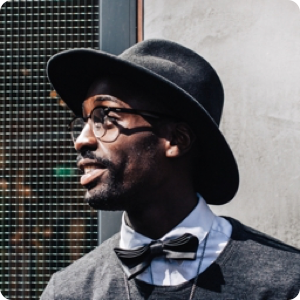
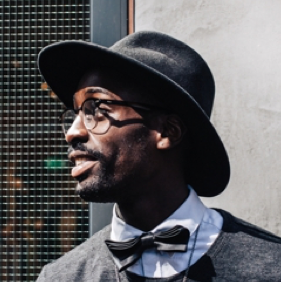
no message

diff --git a/yunfawu/Content/js/respond.js b/yunfawu/Content/js/respond.js
@@ -1,0 +1,224 @@
+/*! matchMedia() polyfill - Test a CSS media type/query in JS. Authors & copyright (c) 2012: Scott Jehl, Paul Irish, Nicholas Zakas. Dual MIT/BSD license */
+/*! NOTE: If you're already including a window.matchMedia polyfill via Modernizr or otherwise, you don't need this part */
+(function(w) {
+  "use strict";
+  w.matchMedia = w.matchMedia || function(doc, undefined) {
+    var bool, docElem = doc.documentElement, refNode = docElem.firstElementChild || docElem.firstChild, fakeBody = doc.createElement("body"), div = doc.createElement("div");
+    div.id = "mq-test-1";
+    div.style.cssText = "position:absolute;top:-100em";
+    fakeBody.style.background = "none";
+    fakeBody.appendChild(div);
+    return function(q) {
+      div.innerHTML = '&shy;<style media="' + q + '"> #mq-test-1 { width: 42px; }</style>';
+      docElem.insertBefore(fakeBody, refNode);
+      bool = div.offsetWidth === 42;
+      docElem.removeChild(fakeBody);
+      return {
+        matches: bool,
+        media: q
+      };
+    };
+  }(w.document);
+})(this);
+
+/*! Respond.js v1.4.0: min/max-width media query polyfill. (c) Scott Jehl. MIT Lic. j.mp/respondjs  */
+(function(w) {
+  "use strict";
+  var respond = {};
+  w.respond = respond;
+  respond.update = function() {};
+  var requestQueue = [], xmlHttp = function() {
+    var xmlhttpmethod = false;
+    try {
+      xmlhttpmethod = new w.XMLHttpRequest();
+    } catch (e) {
+      xmlhttpmethod = new w.ActiveXObject("Microsoft.XMLHTTP");
+    }
+    return function() {
+      return xmlhttpmethod;
+    };
+  }(), ajax = function(url, callback) {
+    var req = xmlHttp();
+    if (!req) {
+      return;
+    }
+    req.open("GET", url, true);
+    req.onreadystatechange = function() {
+      if (req.readyState !== 4 || req.status !== 200 && req.status !== 304) {
+        return;
+      }
+      callback(req.responseText);
+    };
+    if (req.readyState === 4) {
+      return;
+    }
+    req.send(null);
+  };
+  respond.ajax = ajax;
+  respond.queue = requestQueue;
+  respond.regex = {
+    media: /@media[^\{]+\{([^\{\}]*\{[^\}\{]*\})+/gi,
+    keyframes: /@(?:\-(?:o|moz|webkit)\-)?keyframes[^\{]+\{(?:[^\{\}]*\{[^\}\{]*\})+[^\}]*\}/gi,
+    urls: /(url\()['"]?([^\/\)'"][^:\)'"]+)['"]?(\))/g,
+    findStyles: /@media *([^\{]+)\{([\S\s]+?)$/,
+    only: /(only\s+)?([a-zA-Z]+)\s?/,
+    minw: /\([\s]*min\-width\s*:[\s]*([\s]*[0-9\.]+)(px|em)[\s]*\)/,
+    maxw: /\([\s]*max\-width\s*:[\s]*([\s]*[0-9\.]+)(px|em)[\s]*\)/
+  };
+  respond.mediaQueriesSupported = w.matchMedia && w.matchMedia("only all") !== null && w.matchMedia("only all").matches;
+  if (respond.mediaQueriesSupported) {
+    return;
+  }
+  var doc = w.document, docElem = doc.documentElement, mediastyles = [], rules = [], appendedEls = [], parsedSheets = {}, resizeThrottle = 30, head = doc.getElementsByTagName("head")[0] || docElem, base = doc.getElementsByTagName("base")[0], links = head.getElementsByTagName("link"), lastCall, resizeDefer, eminpx, getEmValue = function() {
+    var ret, div = doc.createElement("div"), body = doc.body, originalHTMLFontSize = docElem.style.fontSize, originalBodyFontSize = body && body.style.fontSize, fakeUsed = false;
+    div.style.cssText = "position:absolute;font-size:1em;width:1em";
+    if (!body) {
+      body = fakeUsed = doc.createElement("body");
+      body.style.background = "none";
+    }
+    docElem.style.fontSize = "100%";
+    body.style.fontSize = "100%";
+    body.appendChild(div);
+    if (fakeUsed) {
+      docElem.insertBefore(body, docElem.firstChild);
+    }
+    ret = div.offsetWidth;
+    if (fakeUsed) {
+      docElem.removeChild(body);
+    } else {
+      body.removeChild(div);
+    }
+    docElem.style.fontSize = originalHTMLFontSize;
+    if (originalBodyFontSize) {
+      body.style.fontSize = originalBodyFontSize;
+    }
+    ret = eminpx = parseFloat(ret);
+    return ret;
+  }, applyMedia = function(fromResize) {
+    var name = "clientWidth", docElemProp = docElem[name], currWidth = doc.compatMode === "CSS1Compat" && docElemProp || doc.body[name] || docElemProp, styleBlocks = {}, lastLink = links[links.length - 1], now = new Date().getTime();
+    if (fromResize && lastCall && now - lastCall < resizeThrottle) {
+      w.clearTimeout(resizeDefer);
+      resizeDefer = w.setTimeout(applyMedia, resizeThrottle);
+      return;
+    } else {
+      lastCall = now;
+    }
+    for (var i in mediastyles) {
+      if (mediastyles.hasOwnProperty(i)) {
+        var thisstyle = mediastyles[i], min = thisstyle.minw, max = thisstyle.maxw, minnull = min === null, maxnull = max === null, em = "em";
+        if (!!min) {
+          min = parseFloat(min) * (min.indexOf(em) > -1 ? eminpx || getEmValue() : 1);
+        }
+        if (!!max) {
+          max = parseFloat(max) * (max.indexOf(em) > -1 ? eminpx || getEmValue() : 1);
+        }
+        if (!thisstyle.hasquery || (!minnull || !maxnull) && (minnull || currWidth >= min) && (maxnull || currWidth <= max)) {
+          if (!styleBlocks[thisstyle.media]) {
+            styleBlocks[thisstyle.media] = [];
+          }
+          styleBlocks[thisstyle.media].push(rules[thisstyle.rules]);
+        }
+      }
+    }
+    for (var j in appendedEls) {
+      if (appendedEls.hasOwnProperty(j)) {
+        if (appendedEls[j] && appendedEls[j].parentNode === head) {
+          head.removeChild(appendedEls[j]);
+        }
+      }
+    }
+    appendedEls.length = 0;
+    for (var k in styleBlocks) {
+      if (styleBlocks.hasOwnProperty(k)) {
+        var ss = doc.createElement("style"), css = styleBlocks[k].join("\n");
+        ss.type = "text/css";
+        ss.media = k;
+        head.insertBefore(ss, lastLink.nextSibling);
+        if (ss.styleSheet) {
+          ss.styleSheet.cssText = css;
+        } else {
+          ss.appendChild(doc.createTextNode(css));
+        }
+        appendedEls.push(ss);
+      }
+    }
+  }, translate = function(styles, href, media) {
+    var qs = styles.replace(respond.regex.keyframes, "").match(respond.regex.media), ql = qs && qs.length || 0;
+    href = href.substring(0, href.lastIndexOf("/"));
+    var repUrls = function(css) {
+      return css.replace(respond.regex.urls, "$1" + href + "$2$3");
+    }, useMedia = !ql && media;
+    if (href.length) {
+      href += "/";
+    }
+    if (useMedia) {
+      ql = 1;
+    }
+    for (var i = 0; i < ql; i++) {
+      var fullq, thisq, eachq, eql;
+      if (useMedia) {
+        fullq = media;
+        rules.push(repUrls(styles));
+      } else {
+        fullq = qs[i].match(respond.regex.findStyles) && RegExp.$1;
+        rules.push(RegExp.$2 && repUrls(RegExp.$2));
+      }
+      eachq = fullq.split(",");
+      eql = eachq.length;
+      for (var j = 0; j < eql; j++) {
+        thisq = eachq[j];
+        mediastyles.push({
+          media: thisq.split("(")[0].match(respond.regex.only) && RegExp.$2 || "all",
+          rules: rules.length - 1,
+          hasquery: thisq.indexOf("(") > -1,
+          minw: thisq.match(respond.regex.minw) && parseFloat(RegExp.$1) + (RegExp.$2 || ""),
+          maxw: thisq.match(respond.regex.maxw) && parseFloat(RegExp.$1) + (RegExp.$2 || "")
+        });
+      }
+    }
+    applyMedia();
+  }, makeRequests = function() {
+    if (requestQueue.length) {
+      var thisRequest = requestQueue.shift();
+      ajax(thisRequest.href, function(styles) {
+        translate(styles, thisRequest.href, thisRequest.media);
+        parsedSheets[thisRequest.href] = true;
+        w.setTimeout(function() {
+          makeRequests();
+        }, 0);
+      });
+    }
+  }, ripCSS = function() {
+    for (var i = 0; i < links.length; i++) {
+      var sheet = links[i], href = sheet.href, media = sheet.media, isCSS = sheet.rel && sheet.rel.toLowerCase() === "stylesheet";
+      if (!!href && isCSS && !parsedSheets[href]) {
+        if (sheet.styleSheet && sheet.styleSheet.rawCssText) {
+          translate(sheet.styleSheet.rawCssText, href, media);
+          parsedSheets[href] = true;
+        } else {
+          if (!/^([a-zA-Z:]*\/\/)/.test(href) && !base || href.replace(RegExp.$1, "").split("/")[0] === w.location.host) {
+            if (href.substring(0, 2) === "//") {
+              href = w.location.protocol + href;
+            }
+            requestQueue.push({
+              href: href,
+              media: media
+            });
+          }
+        }
+      }
+    }
+    makeRequests();
+  };
+  ripCSS();
+  respond.update = ripCSS;
+  respond.getEmValue = getEmValue;
+  function callMedia() {
+    applyMedia(true);
+  }
+  if (w.addEventListener) {
+    w.addEventListener("resize", callMedia, false);
+  } else if (w.attachEvent) {
+    w.attachEvent("onresize", callMedia);
+  }
+})(this);

diff --git a/yunfawu/Content/js/html5shiv.min.js b/yunfawu/Content/js/html5shiv.min.js
@@ -1,0 +1,4 @@
+/**
+* @preserve HTML5 Shiv 3.7.2 | @afarkas @jdalton @jon_neal @rem | MIT/GPL2 Licensed
+*/
+!function(a,b){function c(a,b){var c=a.createElement("p"),d=a.getElementsByTagName("head")[0]||a.documentElement;return c.innerHTML="x<style>"+b+"</style>",d.insertBefore(c.lastChild,d.firstChild)}function d(){var a=t.elements;return"string"==typeof a?a.split(" "):a}function e(a,b){var c=t.elements;"string"!=typeof c&&(c=c.join(" ")),"string"!=typeof a&&(a=a.join(" ")),t.elements=c+" "+a,j(b)}function f(a){var b=s[a[q]];return b||(b={},r++,a[q]=r,s[r]=b),b}function g(a,c,d){if(c||(c=b),l)return c.createElement(a);d||(d=f(c));var e;return e=d.cache[a]?d.cache[a].cloneNode():p.test(a)?(d.cache[a]=d.createElem(a)).cloneNode():d.createElem(a),!e.canHaveChildren||o.test(a)||e.tagUrn?e:d.frag.appendChild(e)}function h(a,c){if(a||(a=b),l)return a.createDocumentFragment();c=c||f(a);for(var e=c.frag.cloneNode(),g=0,h=d(),i=h.length;i>g;g++)e.createElement(h[g]);return e}function i(a,b){b.cache||(b.cache={},b.createElem=a.createElement,b.createFrag=a.createDocumentFragment,b.frag=b.createFrag()),a.createElement=function(c){return t.shivMethods?g(c,a,b):b.createElem(c)},a.createDocumentFragment=Function("h,f","return function(){var n=f.cloneNode(),c=n.createElement;h.shivMethods&&("+d().join().replace(/[\w\-:]+/g,function(a){return b.createElem(a),b.frag.createElement(a),'c("'+a+'")'})+");return n}")(t,b.frag)}function j(a){a||(a=b);var d=f(a);return!t.shivCSS||k||d.hasCSS||(d.hasCSS=!!c(a,"article,aside,dialog,figcaption,figure,footer,header,hgroup,main,nav,section{display:block}mark{background:#FF0;color:#000}template{display:none}")),l||i(a,d),a}var k,l,m="3.7.2",n=a.html5||{},o=/^<|^(?:button|map|select|textarea|object|iframe|option|optgroup)$/i,p=/^(?:a|b|code|div|fieldset|h1|h2|h3|h4|h5|h6|i|label|li|ol|p|q|span|strong|style|table|tbody|td|th|tr|ul)$/i,q="_html5shiv",r=0,s={};!function(){try{var a=b.createElement("a");a.innerHTML="<xyz></xyz>",k="hidden"in a,l=1==a.childNodes.length||function(){b.createElement("a");var a=b.createDocumentFragment();return"undefined"==typeof a.cloneNode||"undefined"==typeof a.createDocumentFragment||"undefined"==typeof a.createElement}()}catch(c){k=!0,l=!0}}();var t={elements:n.elements||"abbr article aside audio bdi canvas data datalist details dialog figcaption figure footer header hgroup main mark meter nav output picture progress section summary template time video",version:m,shivCSS:n.shivCSS!==!1,supportsUnknownElements:l,shivMethods:n.shivMethods!==!1,type:"default",shivDocument:j,createElement:g,createDocumentFragment:h,addElements:e};a.html5=t,j(b)}(this,document);

diff --git a/yunfawu/index.html b/yunfawu/index.html
@@ -11,6 +11,11 @@
     <link rel="stylesheet" href="Content/css/all.css">
     <script src='Content/js/jquery-1.8.3.min.js'></script>
     <script src='Content/js/main.js?version=1.2.6'></script>
+    <!-- 使ie9及以下兼容媒体查询和html5标签 -->
+    <!--[if lt IE 9]>
+    　 <script src="Content/js/html5shiv.min.js"></script>
+       <script src="Content/js/respond.js"></script>
+    <![endif]-->
 </head>
 <body id="home">
 
@@ -34,9 +39,12 @@
             <div class="right">
                 <span>我们要做什么？</span>
                 <h1>让找律师、打官司变简单！</h1>
-                <p>传统模式下律师于客户的合作方式是一段描述一段描述一段描述一段描述，在云法务这一切都将改变。</p>
+                <p>帮助中小律所获取中小企业和私营业主法律顾问业务，帮助中小企业和私营业主按需解决法律顾问服务需求问题。</p>
                 <a href="https://a.app.qq.com/o/simple.jsp?pkgname=com.lvlian.iforensicclient&channel=0002160650432d595942&fromcase=60001" class="btn" target="_blank">下载客户端</a>
                 <a href="https://a.app.qq.com/o/simple.jsp?pkgname=com.lvlian.iforensic&channel=0002160650432d595942&fromcase=60001" class="btn" target="_blank">下载律师端</a>
+                <div class="download-ewm">
+                    <img src="Content/img/img_download_ewm.png">
+                </div>
             </div>
 
             <i class="other-left"></i><i class="other-right"></i> 

diff --git a/demo.html b/demo.html
@@ -1,47 +1,21 @@
 <!DOCTYPE html>
 <html>
 <head>
-	<title>123</title>
-	<meta charset="utf-8">
-	<meta name="viewport" content="width=device-width, initial-scale=1, user-scalable=no">
-    <meta name="format-detection" content="telephone=no">
-    <meta name="renderer" content="webkit">
+	<title>js练习</title>
 </head>
 <style type="text/css">
-	div{
-		width: 100px;
-		height: 100px;
-		background-color: blue;
-		margin:20px;
-	}	
-	div > div{
-		display: none;
-		width: 100px;
-		height: 100px;
-		background-color: red;
-	}
-	div:hover > div{
-		display:block;
-	}
-	span{
-		display: inline-block;
+	.demo{
 		background-color: red;
 	}
 </style>
 <body>
-	<div>
-		<div></div>
-	</div>
-	<div>
-		<div></div>
-	</div>
-	<div>
-		<div></div>
-	</div>
-
-
+	<canvas class="demo" width="100" height="100"></canvas>
 <script type="text/javascript">
 	
+	var can = document.getElementsByClassName("demo")[0];
+
+
+
 </script>
 </body>
 </html>

diff --git a/yunfawu/Content/css/all.css b/yunfawu/Content/css/all.css
@@ -351,6 +351,7 @@ header.down .menu > a{
   width: 100%;
   height: 200px;
   object-fit: cover;
+  object-position: top center;
   border-radius: 4px;
   margin-bottom: 12px;
 }
@@ -711,5 +712,23 @@ footer > .wrap > .copyright > span:last-child{
 }
 
 
+.download-ewm{
+  display: none;
+  position: fixed;
+  top: 0;
+  left: 0;
+  width: 100%;
+  height: 100%;
+  z-index: 400;
+  background-color: rgba(0,0,0,0.5);
+}
+.download-ewm > img{
+  position: absolute;
+  top: 0;
+  bottom: 0;
+  left: 0;
+  right: 0;
+  margin: auto;
+}
 
 

diff --git a/yunfawu/lawyer.html b/yunfawu/lawyer.html
@@ -11,6 +11,11 @@
     <link rel="stylesheet" href="Content/css/all.css">
     <script src='Content/js/jquery-1.8.3.min.js'></script>
     <script src='Content/js/main.js'></script>
+    <!-- 使ie9及以下兼容媒体查询和html5标签 -->
+    <!--[if lt IE 9]>
+    　 <script src="Content/js/html5shiv.min.js"></script>
+       <script src="Content/js/respond.js"></script>
+    <![endif]-->
 </head>
 <body id="lawyer">
 

diff --git a/yunfawu/law.html b/yunfawu/law.html
@@ -11,6 +11,11 @@
     <link rel="stylesheet" href="Content/css/all.css">
     <script src='Content/js/jquery-1.8.3.min.js'></script>
     <script src='Content/js/main.js'></script>
+    <!-- 使ie9及以下兼容媒体查询和html5标签 -->
+    <!--[if lt IE 9]>
+    　 <script src="Content/js/html5shiv.min.js"></script>
+       <script src="Content/js/respond.js"></script>
+    <![endif]-->
 </head>
 <body>
 

diff --git a/yunfawu/Content/js/main.js b/yunfawu/Content/js/main.js
@@ -122,4 +122,17 @@ $(function(){
 	})
 
 
+	// pc端点击下载按钮
+	$(".banner > .wrap > .right > .btn").on("click",function(){
+		var num = $(window).width();
+		if(num >= 867){
+			$(".download-ewm").fadeIn(200);
+			$(".download-ewm").on("click",function(){
+				$(this).fadeOut(200);
+			})
+			return false;
+		}
+	});
+
+
 })
